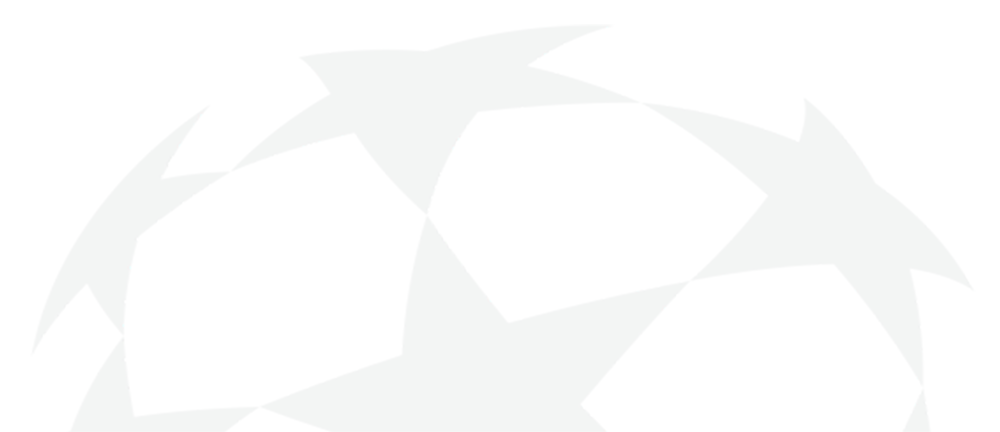
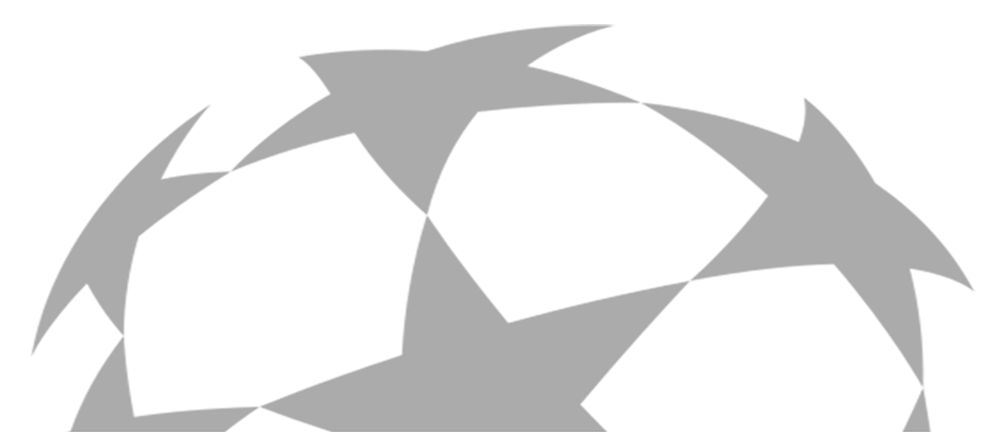
refactored, working with three colours

Changed region(s): [[0.031, 0.0301, 0.992, 1.0]]

diff --git a/public/js/canvas.js b/public/js/canvas.js
@@ -6,10 +6,6 @@ function drawCanvas(){
 
     var canvas = document.getElementById('canvas');
     var context = canvas.getContext('2d');
-
-
-
-
     var home_goals = data.home_goals;
     var away_goals = data.away_goals;
     var multiply = 1;
@@ -166,6 +162,4 @@ function drawCanvas(){
     }).then(function(result){
         console.log(lineabove);
     });
-
-
 };

diff --git a/resources/views/result_generator/match_image_generate.blade.php b/resources/views/result_generator/match_image_generate.blade.php
@@ -7,9 +7,9 @@
             <input type="hidden" id="competition" name="competition" value="epl"/>
             <input type="hidden" id="template_id" name="template_id" value="1"/>
 
-            <div class="col l12 col m12">
-                <label for="home_team">Hazai Csapat</label>
-                <select name="home_team" id="home_team">
+            <div class="col l12 m12">
+                <label for="team_a">Első Csapat</label>
+                <select name="team_a" id="team_a" disabled="disabled">
                     @foreach($clubs as $club)
                         @if($club->TID == 64)
                             <option value="{{$club->TID}}" id="away_{{$club->FDCOUK}}" selected="selected" data-content="{{$club->Logo_url}}">{{$club->FDCOUK}}</option>
@@ -20,47 +20,54 @@
                 </select>
             </div>
 
-         {{--   <div class="col l12 col m12">
-                <label for="home_team">Home Team</label>
-                <select name="home_team" id="home_team">
-                        <option value="64" id="home_Liverpool" data-content="http://upload.wikimedia.org/wikipedia/de/0/0a/FC_Liverpool.svg">Liverpool</option>
-                </select>
-            </div>--}}
 
-            <div class="col l12 col m12">
-                <label for="away_team">Vendég Csapat</label>
-                <select name="away_team" id="away_team">
+            <div class="col l12 m12">
+                <label for="team_b">Ellenfél</label>
+                <select name="team_b" id="team_b">
                     @foreach($clubs as $club)
                         <option value="{{$club->TID}}" id="away_{{$club->FDCOUK}}" data-content="{{$club->Logo_url}}">{{$club->FDCOUK}}</option>
                     @endforeach
                 </select>
             </div>
 
-            <div class="col l12 col m12">
-                <label for="home_team_goals">Home Team goals</label>
-                <input type="number" id="home_team_goals" name="home_team_goals"/>
+        <div class="col l6 m6">
+            <label for="location">Helyszín/mez szín</label>
+            <select name="location" id="location">
+                <option value="home" id="home">Hazai</option>
+                <option value="away" id="away">Idegenbeli - fehér</option>
+                <option value="third" id="third">Idegenbeli - narancs</option>
+            </select>
+        </div>
+
+        <div class="col l6 m6">
+            <label for="competition">Versenysorozat</label>
+            <select name="competition" id="competition">
+                <option value="epl" id="epl">Premier League</option>
+                <option value="ucl" id="ucl">Bajnokok Ligája</option>
+            </select>
+        </div>
+
+            <div class="col l6 col m6">
+                <label for="team_a_goals">Liverpool gólok</label>
+                <input type="number" id="team_a_goals" name="team_a_goals"/>
             </div>
 
-            <div class="col l12 col m12">
-                <label for="away_team_goals">Away Team goals</label>
-                <input type="number" id="away_team_goals" name="away_team_goals"/>
+            <div class="col l6 col m6">
+                <label for="team_b_goals">Az ellenfél góljai</label>
+                <input type="number" id="team_b_goals" name="team_b_goals"/>
             </div>
 
 
 
-            <div class="col l12 col m12">
-                <label for="competition">Versenysorozat</label>
-                <select name="competition" id="competition">
-                    <option value="epl" id="epl">Premier League</option>
-                    <option value="ucl" id="ucl">Bajnokok Ligája</option>
-                </select>
+
+            <div class="col l12 m12">
+                {{Form::label('background_image', 'Háttérkép',['class' => 'control-label', 'required' =>'required'])}}
+                {{Form::file('background_image')}}
+                {{Form::submit('Uzsgyi!', ['class' => 'btn btn-danger'])}}
+                {{Form::close()}}
             </div>
 
 
-            {{Form::label('background_image', 'Háttérkép',['class' => 'control-label', 'required' =>'required'])}}
-            {{Form::file('background_image')}}
-            {{Form::submit('Uzsgyi!', ['class' => 'btn btn-danger'])}}
-        {{Form::close()}}
 
     </div>
 

diff --git a/app/Http/Controllers/GeneratorController.php b/app/Http/Controllers/GeneratorController.php
@@ -11,7 +11,7 @@ class GeneratorController extends Controller
   public function clubs(Club $club){
     $clubs = $club->get();
 
-    return view('match_image_generate', compact('clubs'));
+    return view('result_generator.match_image_generate', compact('clubs'));
   }
 
 
@@ -36,31 +36,41 @@ class GeneratorController extends Controller
       $imageURL = 'https://d3j2s6hdd6a7rg.cloudfront.net/v2/uploads/media/default/0001/58/thumb_57208_default_news_size_5.jpeg';
     }
 
-    if ($request['home_team'] != 64 && $request['away_team'] != 64)
-    {
-      dump('hello');
-      return redirect()->route('generating');
-    }
 
-    $home_team_crest = $this->crestUrl($request['home_team'], $club);
-    $away_team_crest = $this->crestUrl($request['away_team'], $club);
+    $home = $request['location'] == 'home';
+    $liverpool = '64';
+
+    $home_team = [
+      'name' => $home ? $liverpool : $request['team_b'],
+      'goals' => $home ? $request['team_a_goals'] : $request['team_b_goals']
+    ];
+    $away_team = [
+      'name' => $home ? $request['team_b'] : $liverpool,
+      'goals' => $home ? $request['team_b_goals'] : $request['team_a_goals']
+    ];
+
+
+
+    $home_team_crest = $this->crestUrl($home_team['name'], $club);
+    $away_team_crest = $this->crestUrl($away_team['name'], $club);
 
     $data = [
       'competition' => $request['competition'],
-      'home_team' => $request['home_team'],
+      'home_team' => $home_team['name'],
       'home_team_crest' => $home_team_crest,
-      'away_team' => $request['away_team'],
+      'home_team_goals' => $home_team['goals'],
+      'away_team' => $away_team['name'],
       'away_team_crest' => $away_team_crest,
-      'away_team_goals' => $request['away_team_goals'],
-      'home_team_goals' => $request['home_team_goals'],
+      'away_team_goals' => $away_team['goals'],
       'background_image' => $imageURL,
       'ucl_image' => $request['competition']=='ucl' ? url('images/ucl.png') : '',
-      'template' => $this->template($request['template_id'], $template),
+      /*'template' => $this->template($request['template_id'], $template),*/
       ];
 
-    $location = $request['home_team'] == 64 ? 'home' : 'away';
+    $location = $request['location'];
     $focus_team = '64';
     $data['colors'] = $this->getColors($focus_team, $location, $club);
+
    // dd($data['template']);
     return view('result_generator.match_image_output', compact('data'));
   }
